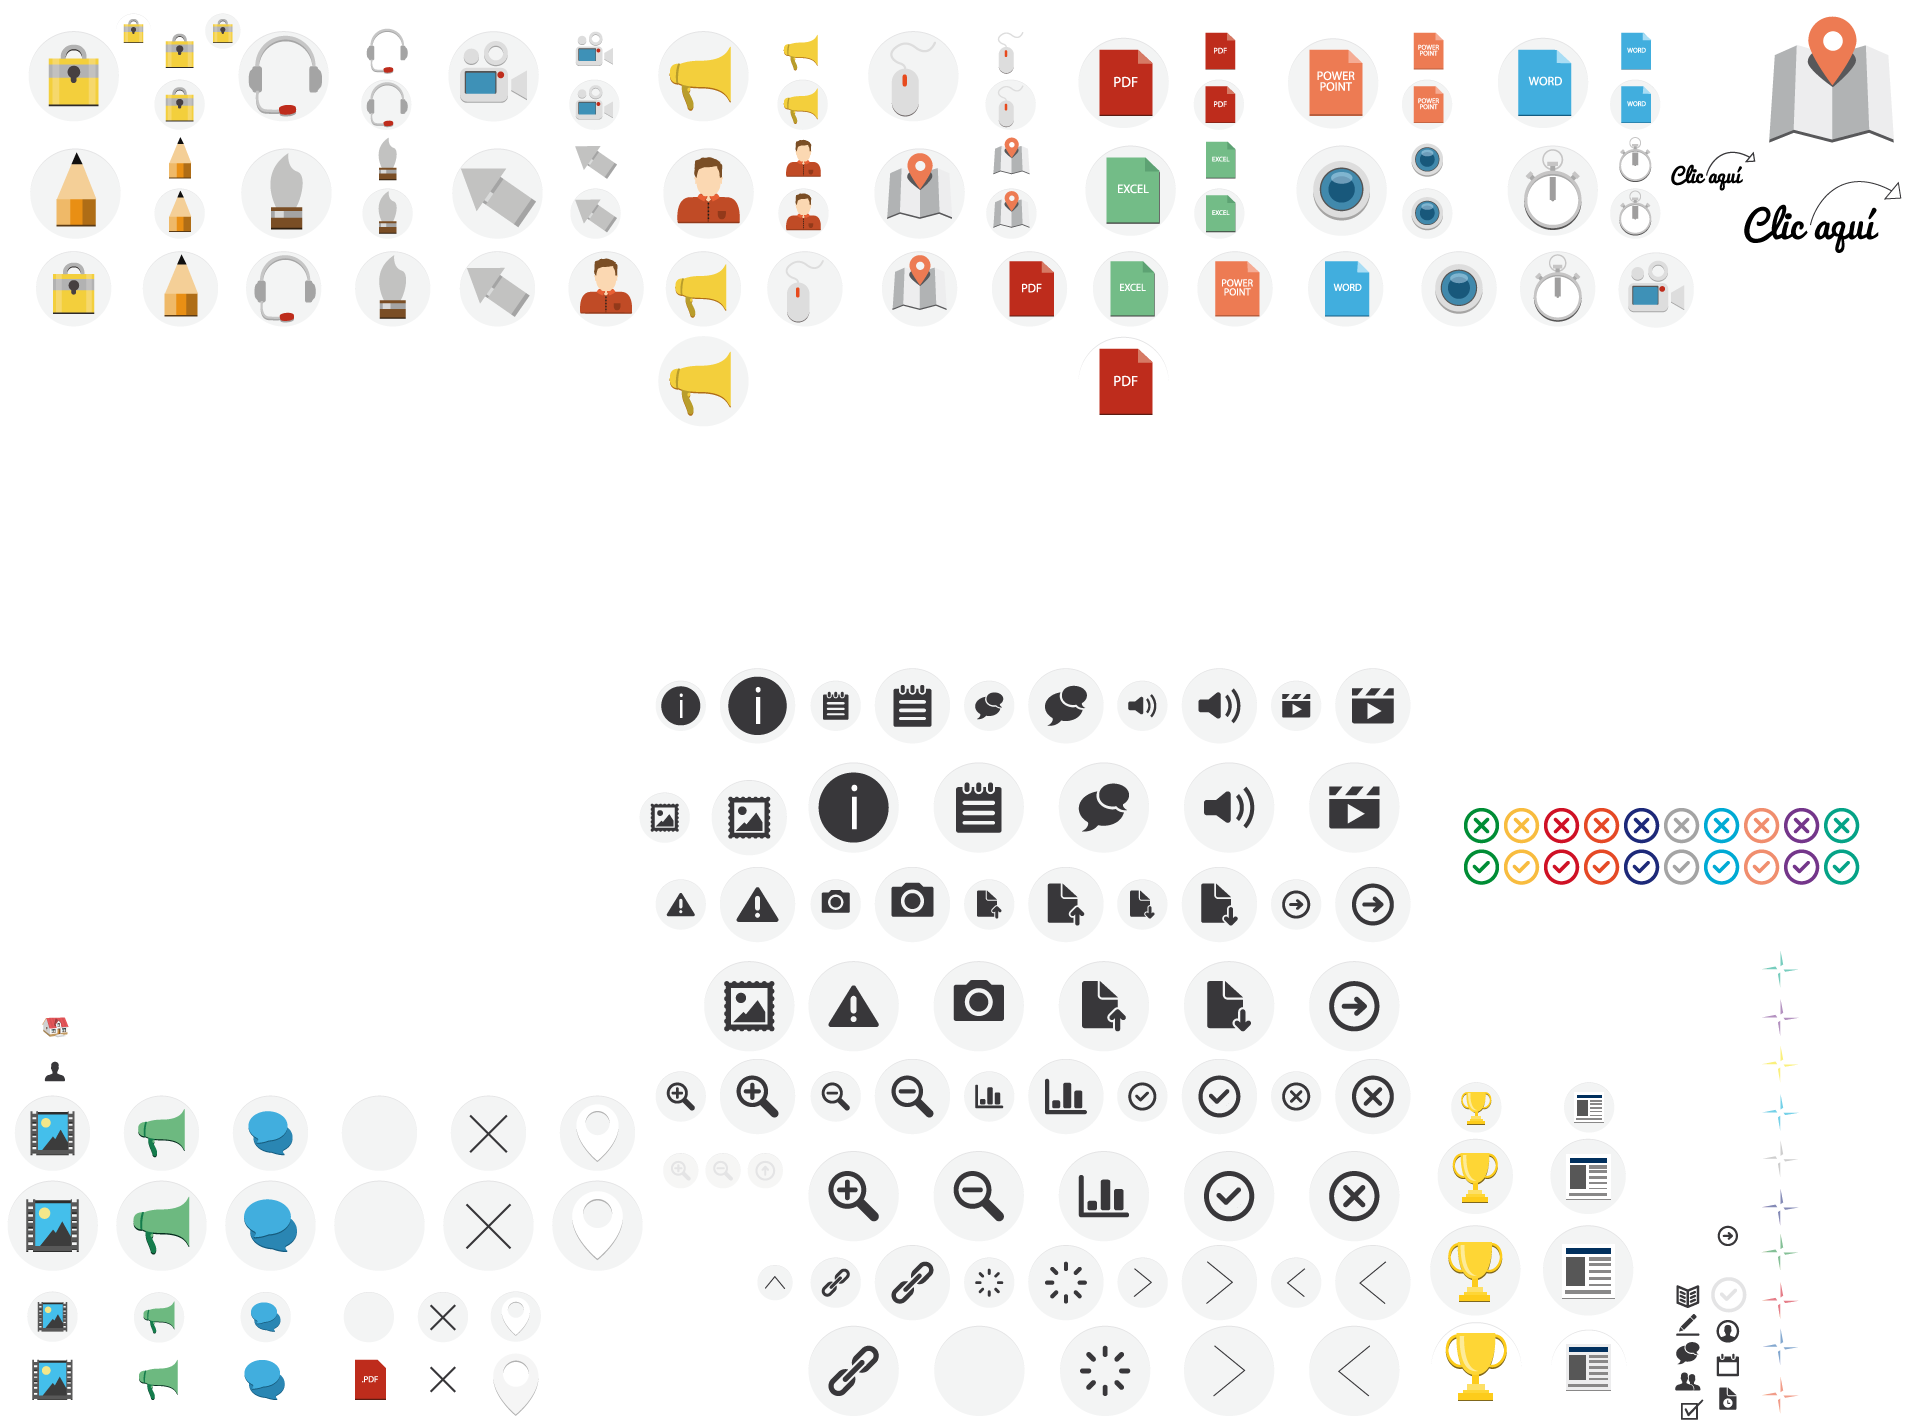
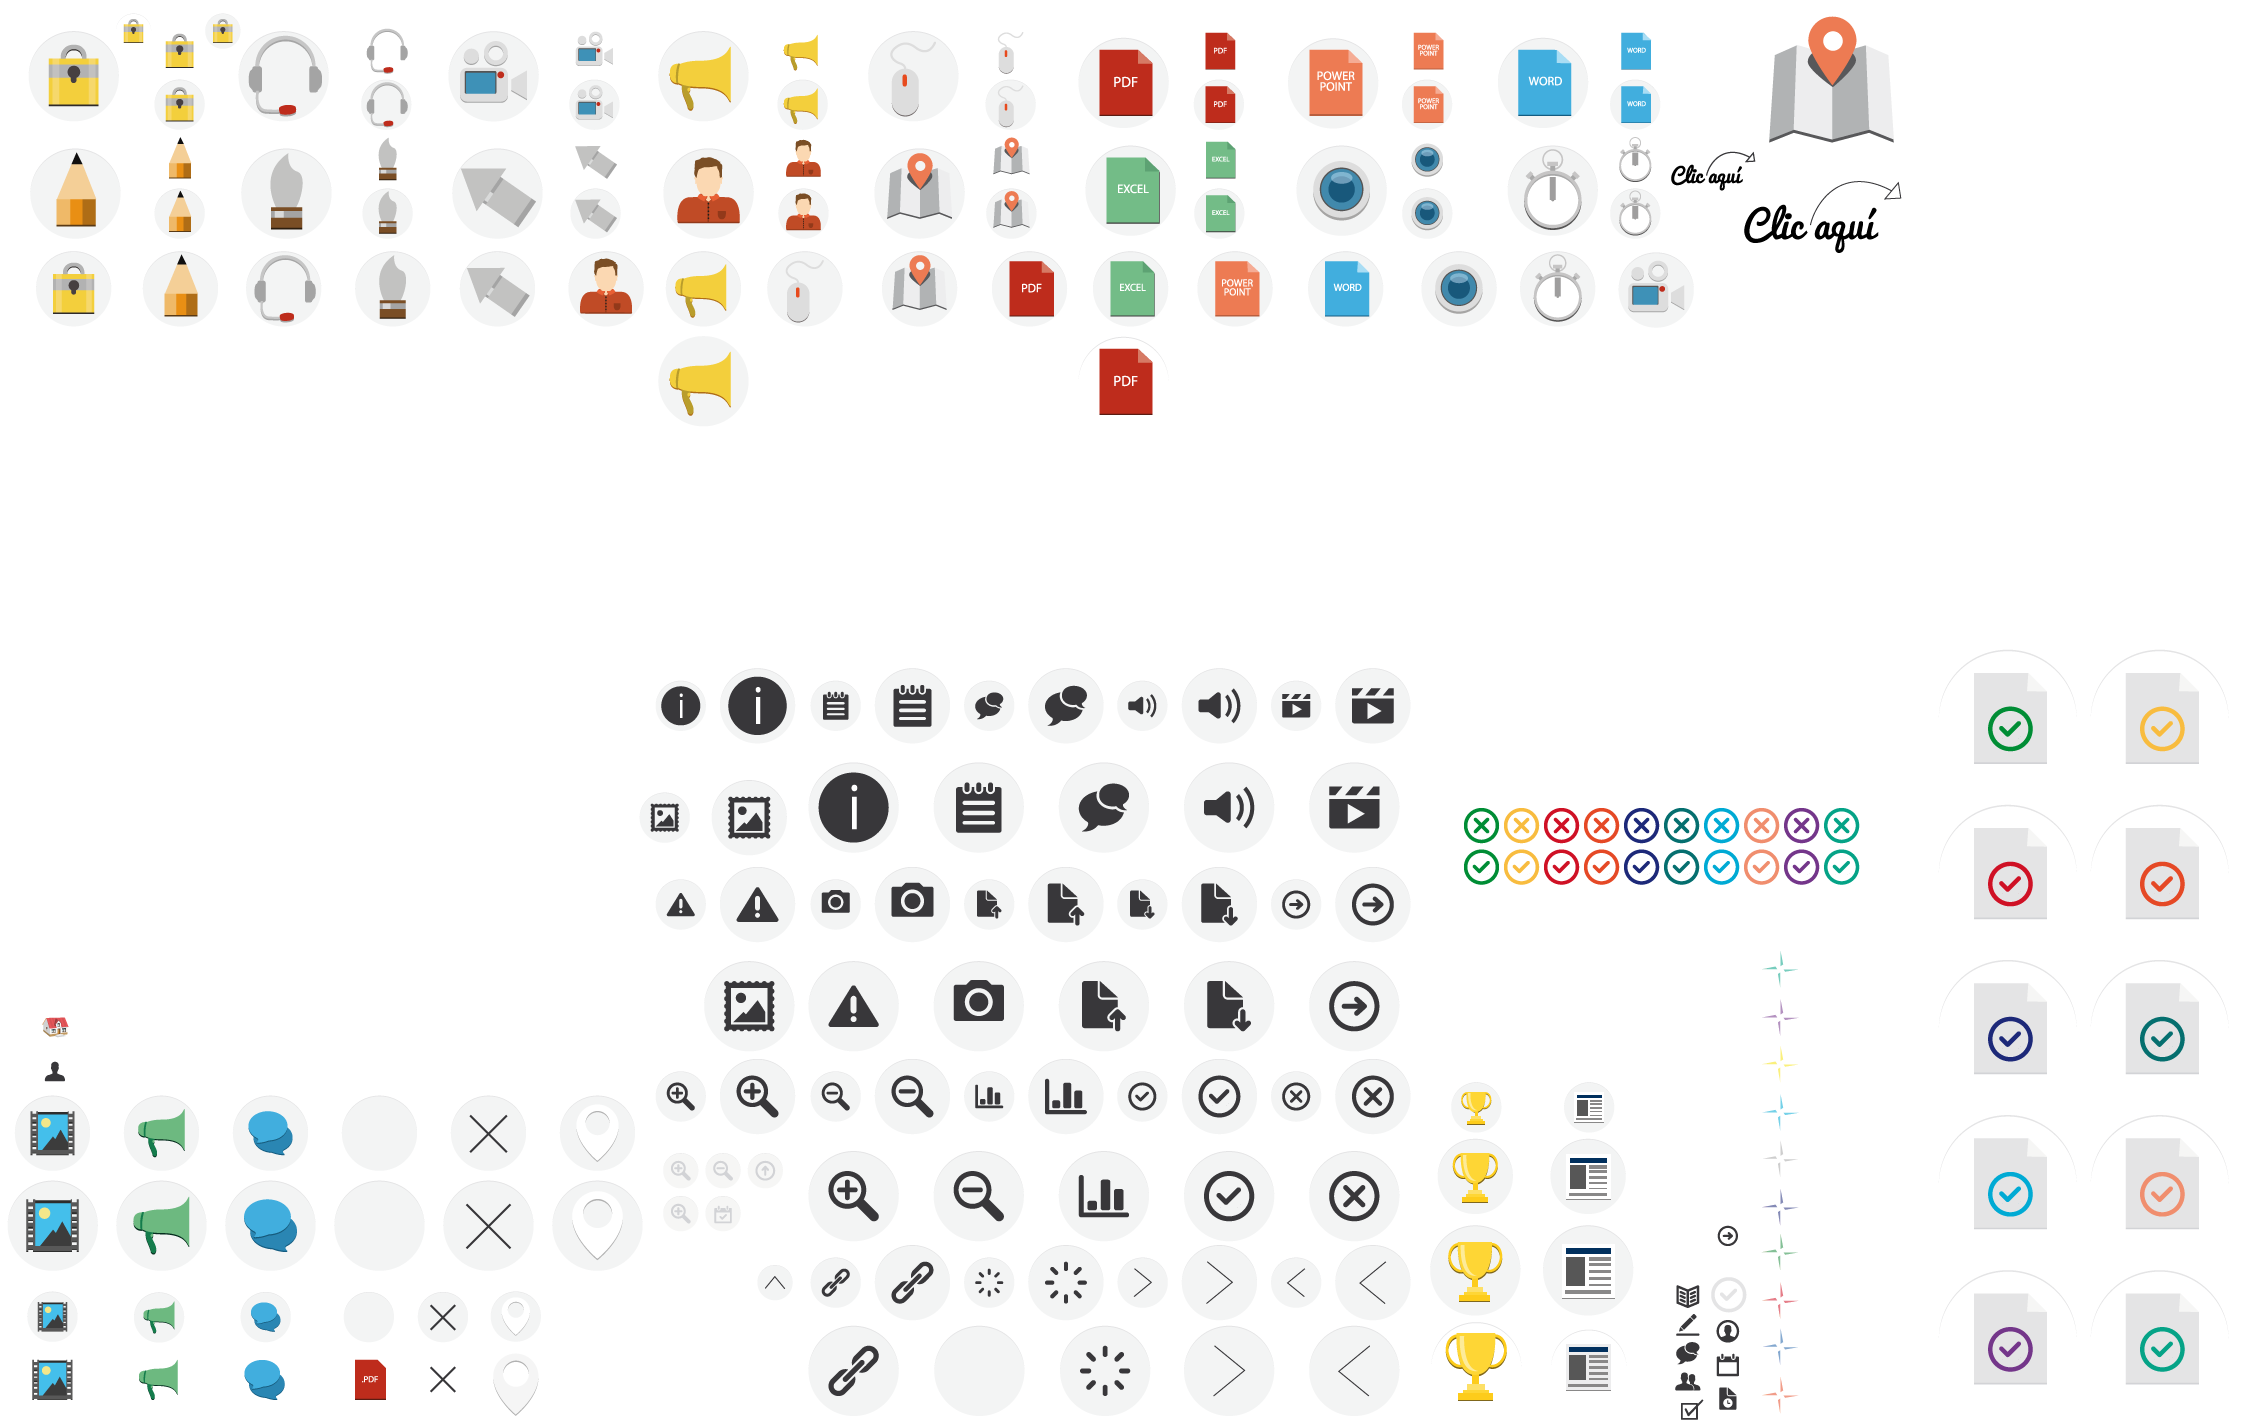
Working on evidence activities template

diff --git a/app/assets/stylesheets/partials/_themes.css.scss b/app/assets/stylesheets/partials/_themes.css.scss
@@ -1,7 +1,7 @@
 @import "../bourbon/_bourbon";
 
 // Creates a theme based in the name
-@mixin create-theme($name, $color-1, $t, $l, $it){
+@mixin create-theme($name, $color-1, $t, $l, $it, $at, $al){
   $grades: ("first", "second", "third", "fourth", "fifth");
   $icon-l1: -808px;
   $icon-l2: -849px;
@@ -17,7 +17,7 @@
     }
     
     .class-background {
-      background: $color-1;
+      background-color: $color-1;
     }
     
     .pr-icon-ucn {
@@ -325,10 +325,22 @@
 
     .pr-congrats-character {
       @include icon-base-background("mensaje_persona_#{$name}.png");
-      @include icon(-307px, -31px, 321px, 456px);
+      @include icon(-115px, -31px, 321px, 456px);
       
       &.failed {
-        @include icon(-692px, -31px, 418px, 456px);
+        @include icon(-500px, -31px, 418px, 456px);
+      }
+
+      &.normal {
+        @include icon(-575px, -1005px, 258px, 456px);
+      }
+
+      &.right {
+        @include icon(-575px, -518px, 344px, 457px);
+      }
+
+      &.left {
+        @include icon(-35px, -518px, 344px, 457px);
       }
     }
 
@@ -345,9 +357,9 @@
 
 // Each matter
 
-@include create-theme(esp, #e54a26, -1759px, -1376px, -1584px);
-@include create-theme(soc, #dfc432, -1759px, -1328px, -1524px);
-@include create-theme(sci, #238b3e, -1759px, -1233px, -1464px);
-@include create-theme(mat, #CF0D25, -1759px, -1282px, -1544px);
-@include create-theme(tic, #a4a4a4, -1759px, -1140px, -1664px);
-@include create-theme(eng, #34277a, -1759px, -1233px, -1464px);
+@include create-theme(esp, #e54a26, -1759px, -1376px, -1584px, -2090px, -804px);
+@include create-theme(soc, #dfc432, -1759px, -1328px, -1524px, -2090px, -649px);
+@include create-theme(sci, #238b3e, -1759px, -1233px, -1464px, -1938px, -649px);
+@include create-theme(mat, #CF0D25, -1759px, -1282px, -1544px, -1938px, -804px);
+@include create-theme(tic, #a4a4a4, -1759px, -1140px, -1664px, -2090px, -960px);
+@include create-theme(eng, #34277a, -1759px, -1233px, -1464px, -1938px, -960px);

diff --git a/app/assets/stylesheets/course/templates/evidence_activity.css.scss b/app/assets/stylesheets/course/templates/evidence_activity.css.scss
@@ -1,0 +1,32 @@
+.evidence-activity {
+	.eva-table {
+		position: absolute;
+		bottom: 0;
+		left: 50%;
+		margin-left: -375px;
+		z-index: 10;
+	}
+
+	.eva-character {
+		position: absolute;
+		bottom: 0;
+		left: 50%;
+		margin-left: -9.915449%;
+		z-index: 12;
+
+		&.left {
+			margin-left: -198px;
+		}
+	}
+
+	.eva-row {
+		margin-top: 10px;
+	}
+
+	.eva-container {
+		height: 360px;
+		background-color: $gray-color;
+		@include border-radius(6px);
+		@include pr-box-shadow(inset 0 2px 0 $shadow-gray-color);
+	}
+}

diff --git a/app/assets/stylesheets/partials/_icons.css.scss b/app/assets/stylesheets/partials/_icons.css.scss
@@ -372,6 +372,10 @@
     @include icon(-705px, -1153px, 36px, 36px);
 }
 
+.pr-icon-circle-grades {
+    @include icon(-705px, -1196px, 36px, 36px);
+}
+
 .pr-icon-circle-top {
     @include icon(-747px, -1153px, 36px, 36px);
 }

diff --git a/app/assets/javascripts/application.js b/app/assets/javascripts/application.js
@@ -20,6 +20,7 @@
 //= require angular.audio
 //= require phaser
 //= require videojs
+//= require dropzone
 //= require vendor
 //= require angular-rails-templates
 // Templates in app/assets/templates

diff --git a/app/assets/stylesheets/course/courses.css.scss b/app/assets/stylesheets/course/courses.css.scss
@@ -14,3 +14,4 @@
 @import "templates/drag_drop.css.scss";
 @import "templates/input_canvas.css.scss";
 @import "templates/item_selection_form.css.scss";
+@import "templates/evidence_activity.css.scss";

diff --git a/app/assets/stylesheets/course/templates/lesson_template.css.scss b/app/assets/stylesheets/course/templates/lesson_template.css.scss
@@ -175,6 +175,11 @@
 	left: 0;
 	width: 100%;
 	z-index: -10;
+
+	&.evidence {
+		@extend .class-background;
+		height: 245px;
+	}
 }
 
 @include mobile {
